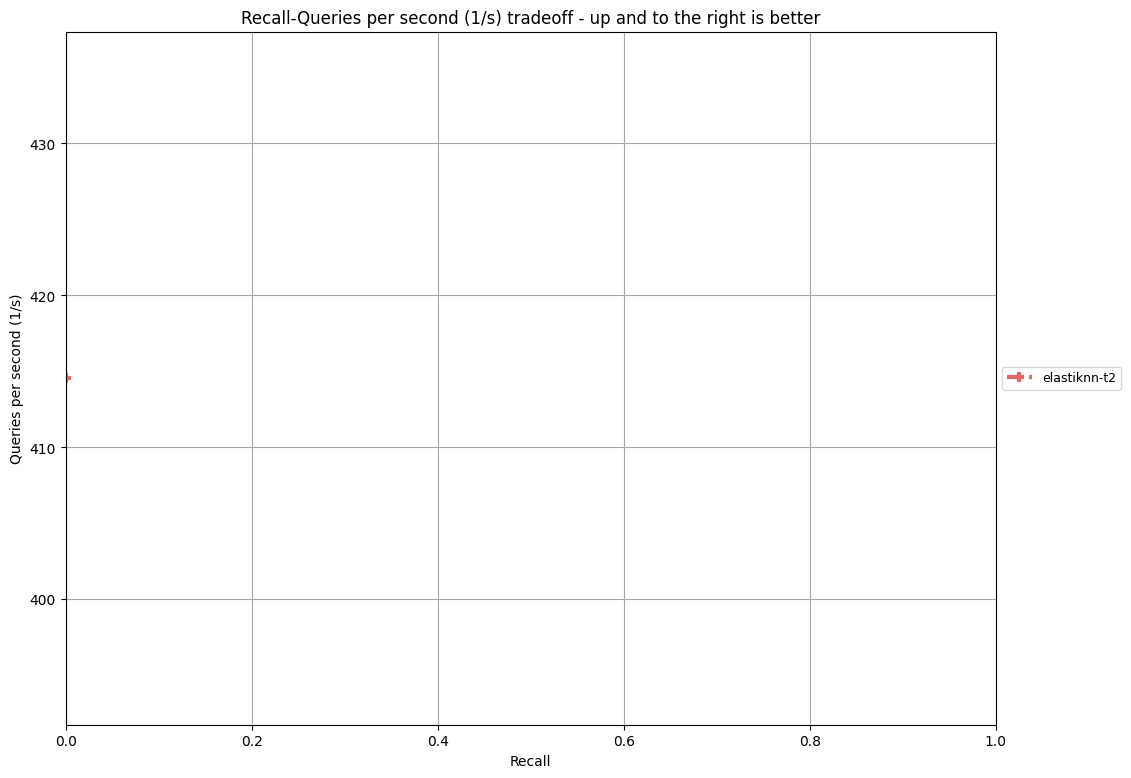
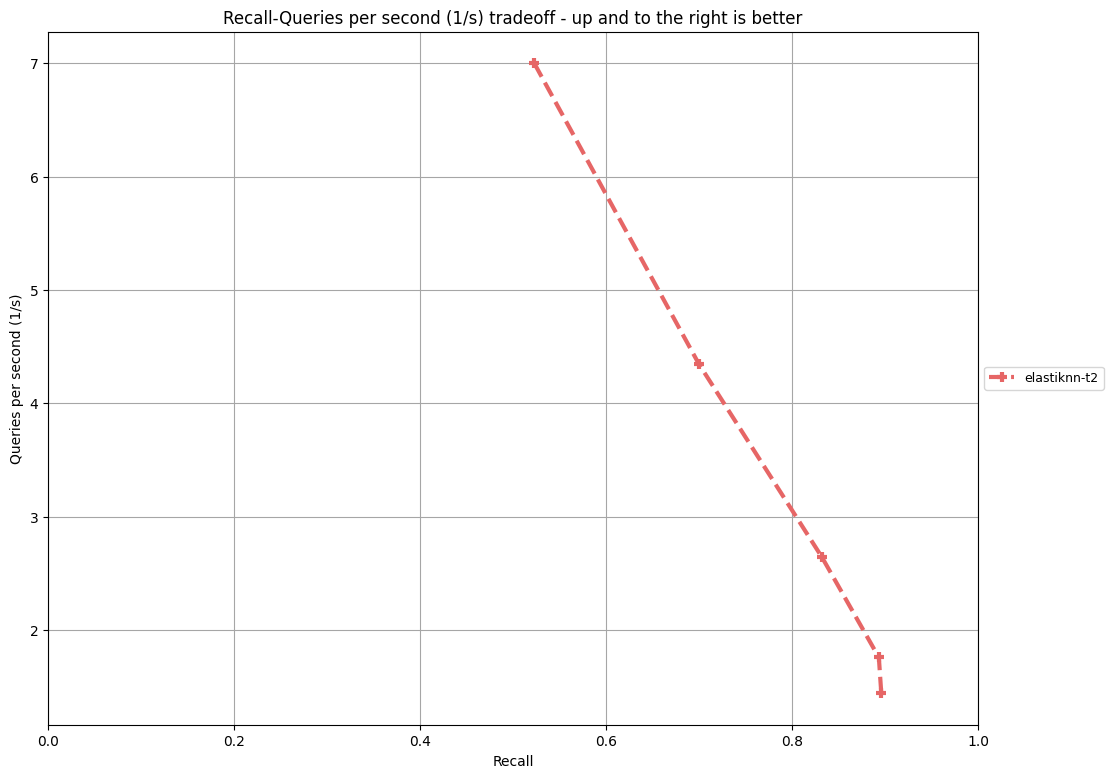
Decent hyperparameters for deep-10M dataset

diff --git a/benchmark/algorithms/elastiknn.py b/benchmark/algorithms/elastiknn.py
@@ -1,6 +1,7 @@
 from multiprocessing import cpu_count
 from psutil import virtual_memory
 from benchmark.algorithms.httpann import HttpANN, HttpANNSubprocess
+from benchmark.datasets import DATASETS
 
 
 class ElastiknnDenseFloatL2Lsh(HttpANN, HttpANNSubprocess):
@@ -30,6 +31,17 @@ class ElastiknnDenseFloatL2Lsh(HttpANN, HttpANNSubprocess):
             "--port 8080",
             f"--parallelism {cpu_count()}"
         ])
+        self.base_name = f"elastiknn-dense-float-l2-lsh-{lsh_L}-{lsh_k}-{lsh_w}"
         HttpANNSubprocess.__init__(self, cmd)
-        HttpANN.__init__(self, server_url="http://0.0.0.0:8080", start_seconds=3,
-                         name=f"elastiknn-dense-float-l2-lsh-{lsh_L}-{lsh_k}-{lsh_w}")
+        HttpANN.__init__(self, server_url="http://0.0.0.0:8080", start_seconds=3, name=self.base_name)
+
+    def fit(self, dataset):
+        # ds = DATASETS[dataset]()
+        # for v in ds.get_dataset()[:10]:
+        #     print(v[:10])
+        super().fit(dataset)
+
+    def set_query_arguments(self, *query_args):
+        candidates, probes = query_args
+        self.name = f"{self.base_name}_{candidates}_{probes}"
+        super().set_query_arguments(candidates, probes)

diff --git a/benchmark/runner.py b/benchmark/runner.py
@@ -30,7 +30,7 @@ def run_individual_query(algo, X, distance, count, run_count, search_type):
             algo.query(X, count)
             total = (time.time() - start)
             results = algo.get_results()
-            assert len(results) == len(X)
+            assert len(results) == len(X), (len(results), len(X))
         else:
             algo.range_query(X, count)
             total = (time.time() - start)
@@ -72,8 +72,7 @@ function""" % (definition.module, definition.constructor, definition.arguments)
     search_type = ds.search_type()
     print(f"Running {definition.algorithm} on {dataset}")
     print(f"Got {len(X)} queries")
-    # print(X.mean(), X.std(), X.min(), X.max())
-    # import pdb; pdb.set_trace()
+    print(X.mean(), X.std(), X.min(), X.max())
     
     try:
         # Try loading the index from the file
